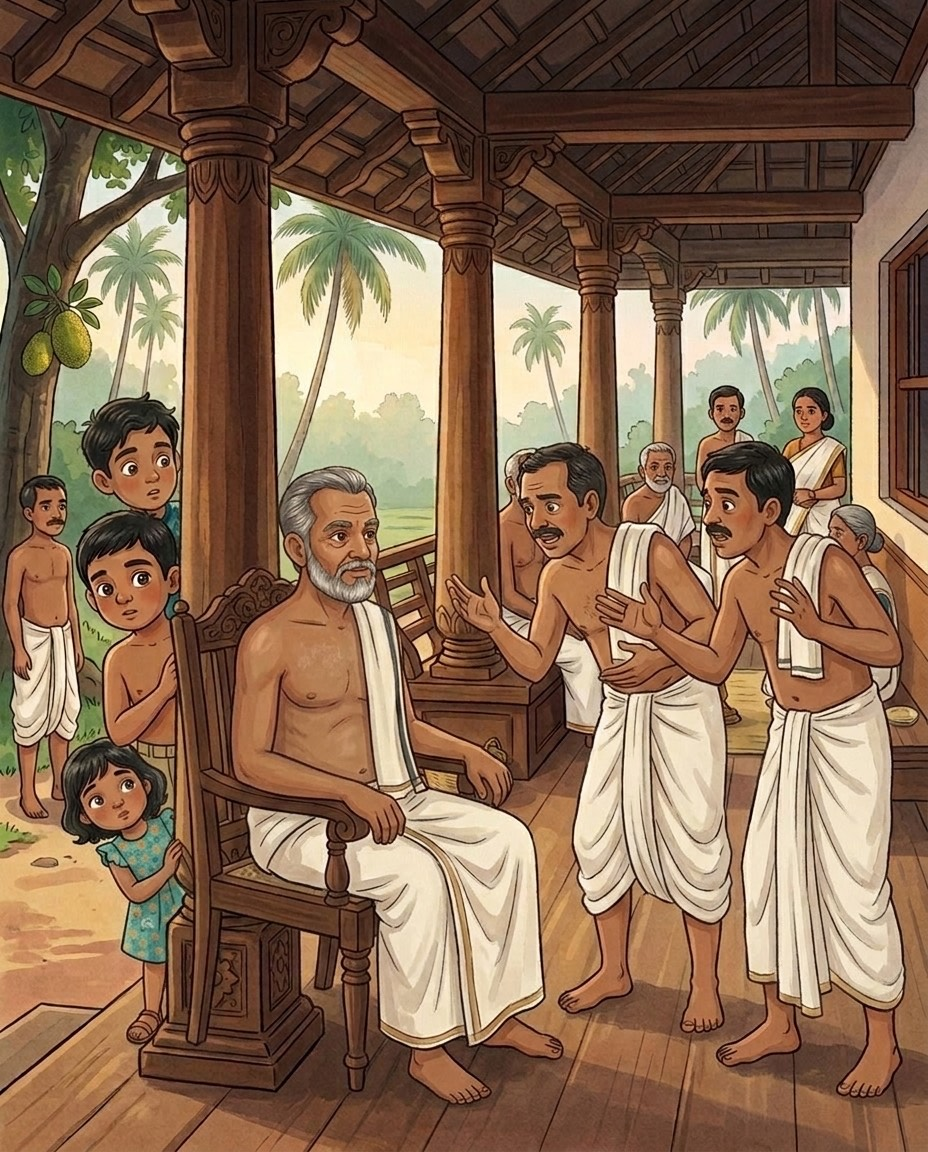
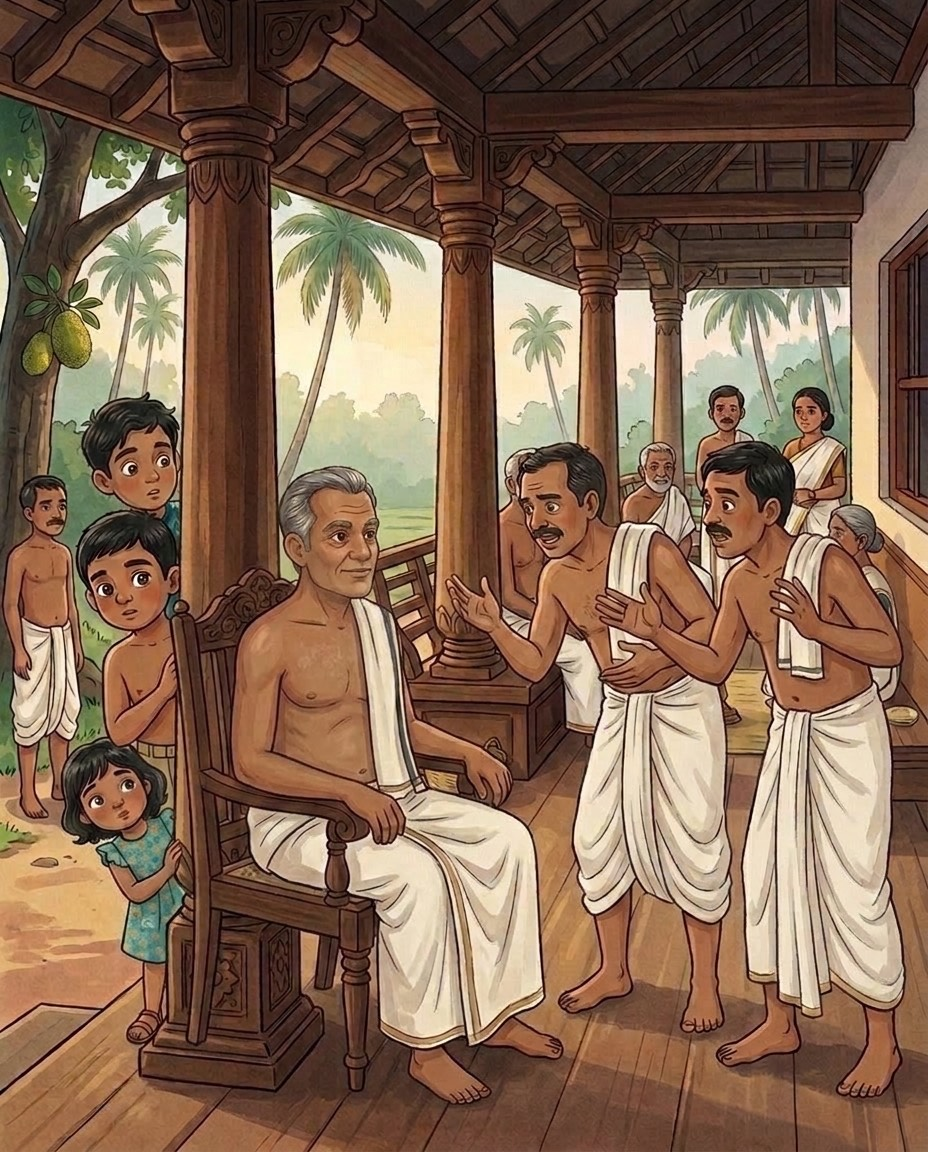
Comic ch.1: Valiyammavan clean-shaven (panels 7, 8, 9)
Per the family, Valiyammavan was tall with no beard or moustache. Panels 7-9
edited, cast description updated, share sheets rebuilt, image version bumped.

Changed region(s): [[0.3125, 0.4688, 0.4062, 0.5312], [0.125, 0.7188, 0.1562, 0.75]]

diff --git a/comics/chiyyaram-childhood/index.html b/comics/chiyyaram-childhood/index.html
@@ -59,7 +59,7 @@
 <script src="story.js?v=3"></script>
 <script>
 var COMIC = {
-  v: '2',  // bump whenever a panel image changes, so browsers drop their cached copies
+  v: '3',  // bump whenever a panel image changes, so browsers drop their cached copies
   next: 'Next time: who was Appuman?',
   nextUrl: '../../stories/appuman-harvest.html',
   nextLink: 'Read Chapter 2 →'
